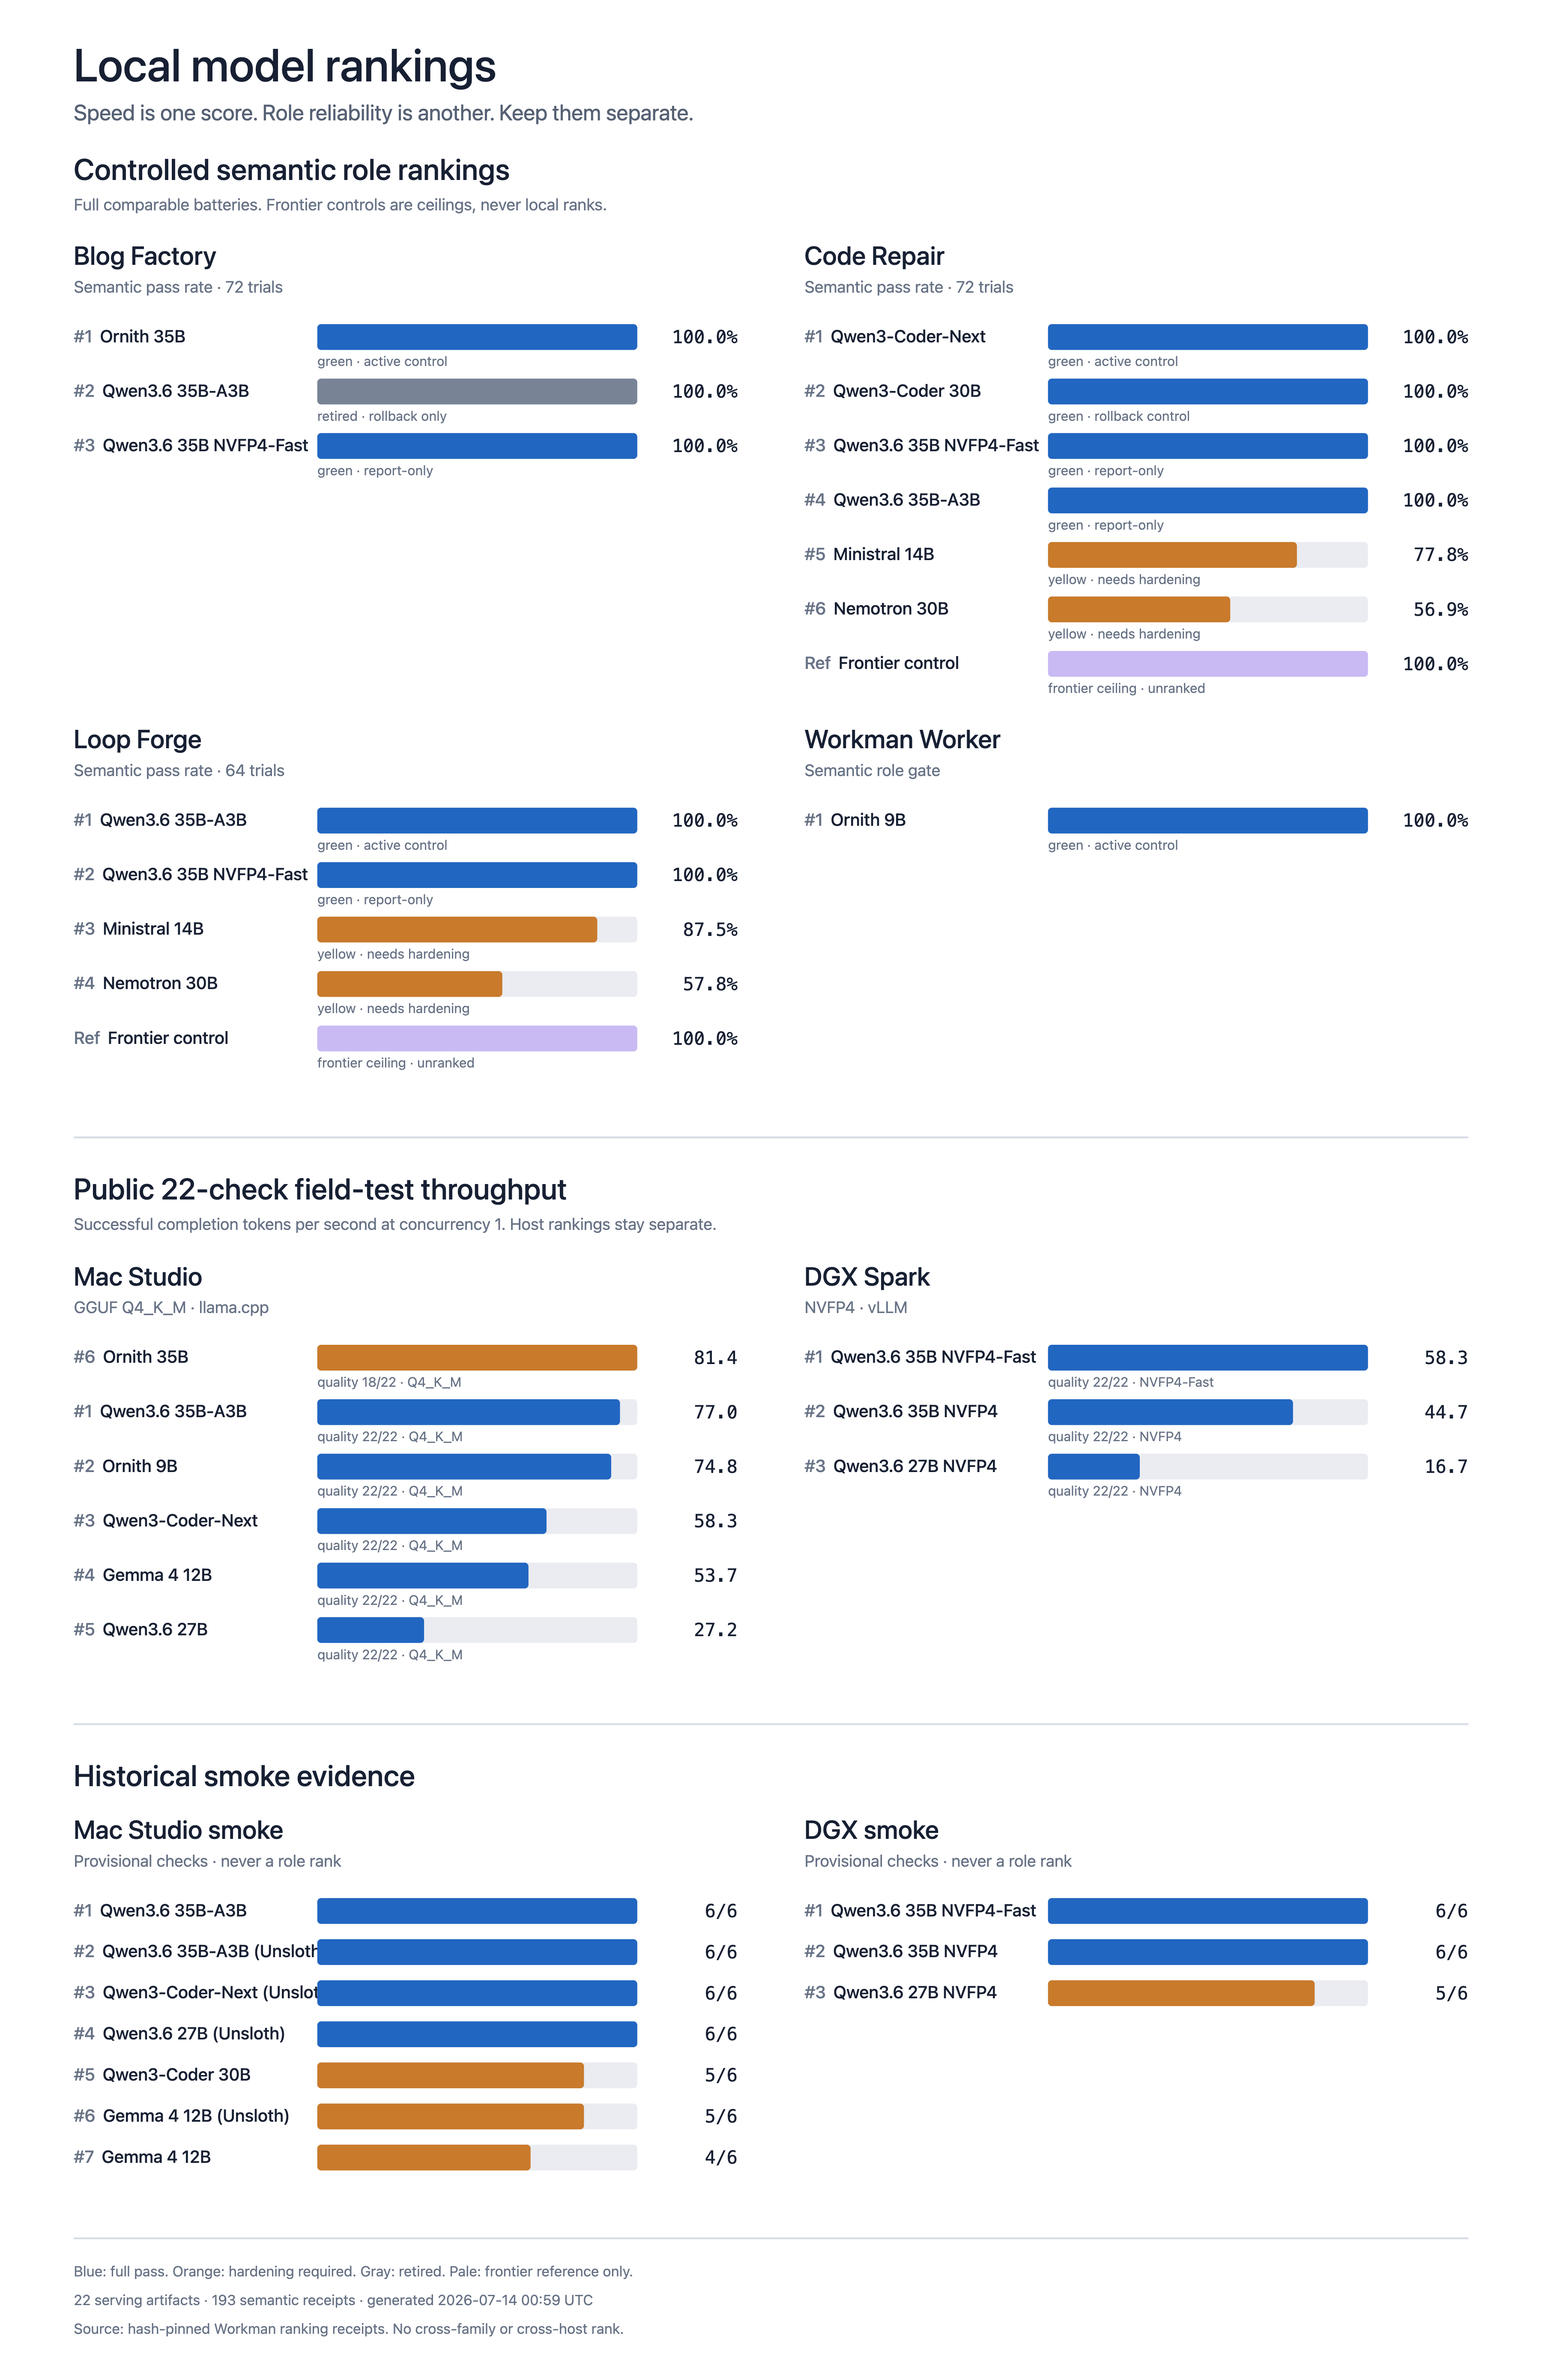
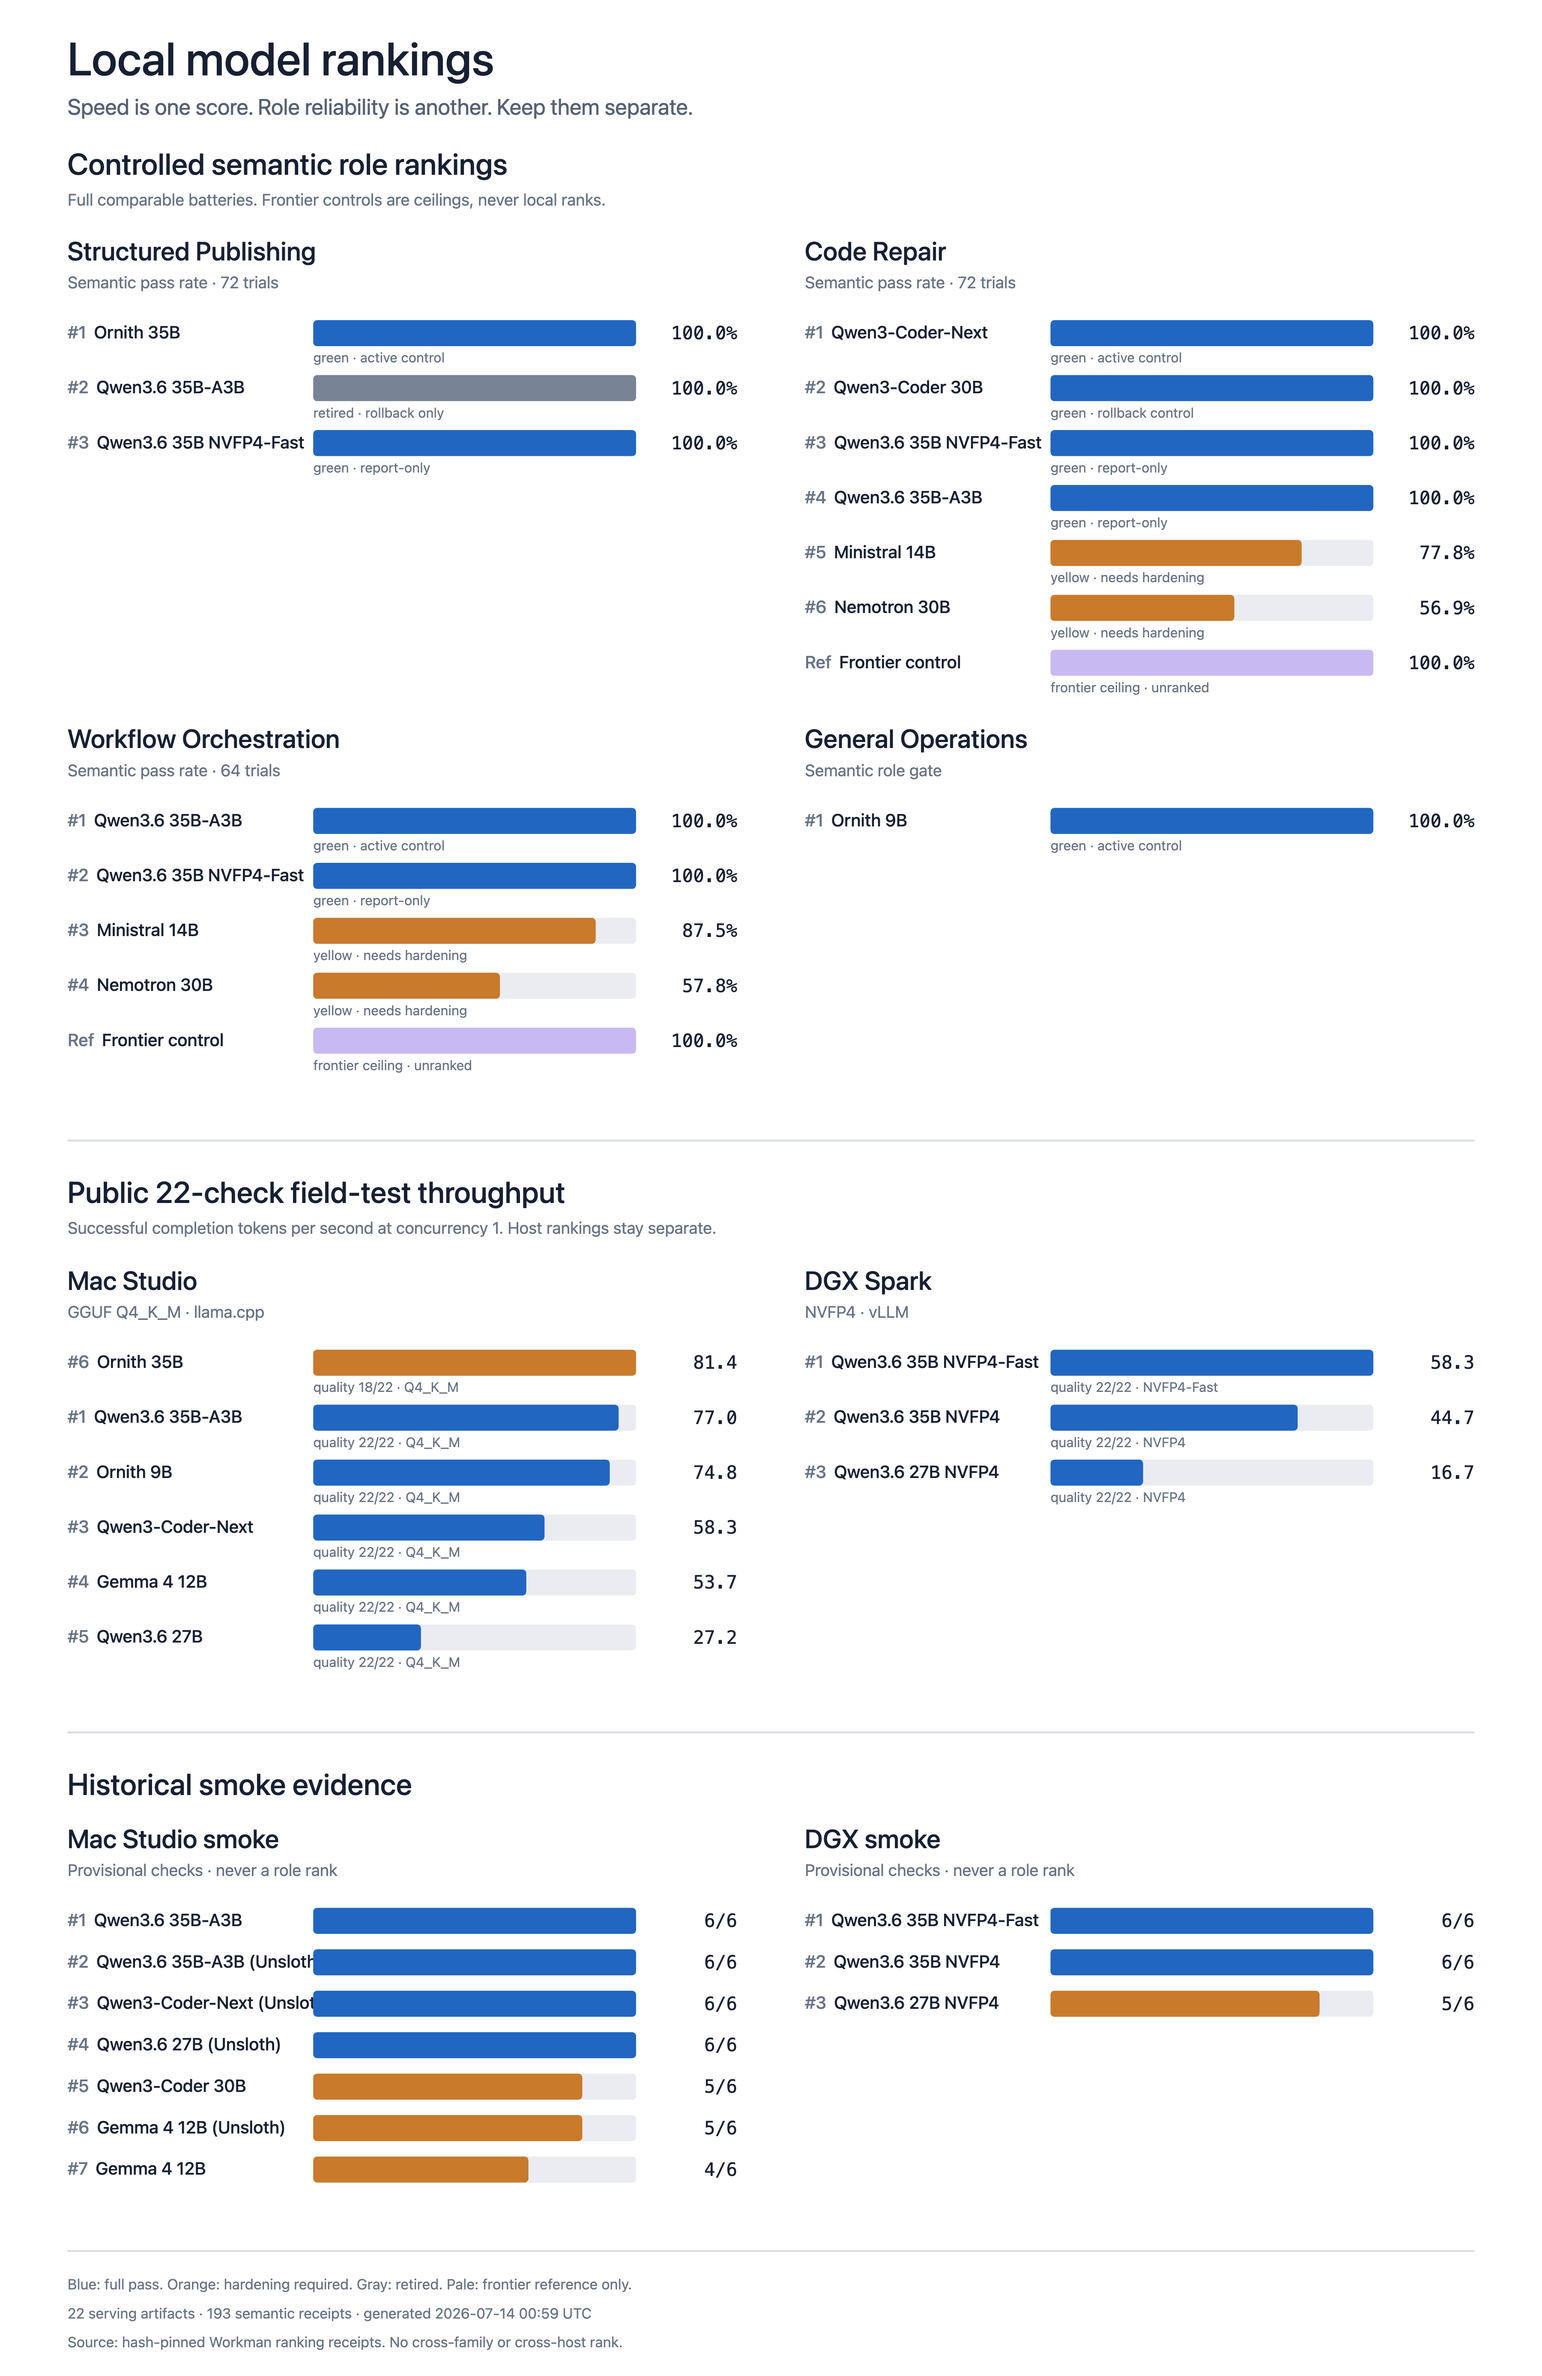
Use public-safe role labels

diff --git a/scripts/audit_public_repo.py b/scripts/audit_public_repo.py
@@ -1,6 +1,8 @@
 #!/usr/bin/env python3
 from __future__ import annotations
 
+import hashlib
+import re
 import subprocess
 import sys
 from functools import lru_cache
@@ -26,6 +28,12 @@ BINARY_SUFFIXES = {
     ".pdf",
     ".png",
     ".webp",
+}
+
+INTERNAL_LABEL_HASH_TO_PUBLIC = {
[3 lines of base64/hex data omitted]
 }
 
 
@@ -80,6 +88,21 @@ def read_audit_text(path: Path) -> str:
     return path.read_text(encoding="utf-8")
 
 
+def internal_label_findings(
+    line: str,
+    blocked: dict[str, str] = INTERNAL_LABEL_HASH_TO_PUBLIC,
+) -> list[str]:
+    words = re.findall(r"[a-z0-9]+", line.casefold())
+    findings: list[str] = []
+    for width in range(2, 5):
+        for start in range(len(words) - width + 1):
+            phrase = " ".join(words[start : start + width])
+            digest = hashlib.sha256(phrase.encode("utf-8")).hexdigest()
+            if digest in blocked:
+                findings.append(f"internal_label_hash:{digest};use={blocked[digest]}")
+    return findings
+
+
 def audit_files(paths: list[Path]) -> list[str]:
     findings: list[str] = []
     for path in paths:
@@ -95,6 +118,8 @@ def audit_files(paths: list[Path]) -> list[str]:
             display = path.name
         for line_number, line in enumerate(text.splitlines(), 1):
             for finding in scan_text(line):
+                findings.append(f"{display}:{line_number}:{finding}")
+            for finding in internal_label_findings(line):
                 findings.append(f"{display}:{line_number}:{finding}")
     return findings
 

diff --git a/tests/test_public_audit.py b/tests/test_public_audit.py
@@ -1,8 +1,14 @@
+import hashlib
 import tempfile
 import unittest
 from pathlib import Path
 
-from scripts.audit_public_repo import audit_files, changed_worktree_paths, tracked_files
+from scripts.audit_public_repo import (
+    audit_files,
+    changed_worktree_paths,
+    internal_label_findings,
+    tracked_files,
+)
 
 
 class PublicAuditTests(unittest.TestCase):
@@ -39,6 +45,15 @@ class PublicAuditTests(unittest.TestCase):
             path.write_text("safe fixture", encoding="utf-8")
             changed_worktree_paths.cache_clear()
             self.assertIn(str(path.relative_to(Path(__file__).resolve().parents[1])), changed_worktree_paths())
+
+    def test_hashed_internal_lane_label_fails_public_audit(self):
+        private_label = "private lane"
+        digest = hashlib.sha256(private_label.encode("utf-8")).hexdigest()
+        findings = internal_label_findings(
+            "This mentions the Private Lane in public copy.",
+            {digest: "Public Workflow"},
+        )
+        self.assertEqual(findings, [f"internal_label_hash:{digest};use=Public Workflow"])
 
 
 if __name__ == "__main__":

diff --git a/results/verified/2026-07-13-role-rankings/README.md b/results/verified/2026-07-13-role-rankings/README.md
@@ -8,28 +8,28 @@ Ranks are lane-specific. A rank in one role does not transfer to another role.
 
 | Lane | Rank | Model | Semantic pass | Trials | Status |
 |---|---:|---|---:|---:|---|
-| Blog Factory | 1 | Ornith 35B | 100.0% | 72 | active control |
-| Blog Factory | 2 | Qwen3.6 35B-A3B | 100.0% | 72 | retired, rollback only |
-| Blog Factory | 3 | Qwen3.6 35B NVFP4-Fast | 100.0% | 72 | report only |
+| Structured Publishing | 1 | Ornith 35B | 100.0% | 72 | active control |
+| Structured Publishing | 2 | Qwen3.6 35B-A3B | 100.0% | 72 | retired, rollback only |
+| Structured Publishing | 3 | Qwen3.6 35B NVFP4-Fast | 100.0% | 72 | report only |
 | Code Repair | 1 | Qwen3-Coder-Next | 100.0% | 72 | active control |
 | Code Repair | 2 | Qwen3-Coder 30B | 100.0% | 72 | rollback control |
 | Code Repair | 3 | Qwen3.6 35B NVFP4-Fast | 100.0% | 72 | report only |
 | Code Repair | 4 | Qwen3.6 35B-A3B | 100.0% | 72 | report only |
 | Code Repair | 5 | Ministral 14B | 77.8% | 72 | needs hardening |
 | Code Repair | 6 | Nemotron 30B | 56.9% | 72 | needs hardening |
-| Loop Forge | 1 | Qwen3.6 35B-A3B | 100.0% | 64 | active control |
-| Loop Forge | 2 | Qwen3.6 35B NVFP4-Fast | 100.0% | 64 | report only |
-| Loop Forge | 3 | Ministral 14B | 87.5% | 64 | needs hardening |
-| Loop Forge | 4 | Nemotron 30B | 57.8% | 64 | needs hardening |
-| Workman Worker | 1 | Ornith 9B | 100.0% | 40 | active control |
+| Workflow Orchestration | 1 | Qwen3.6 35B-A3B | 100.0% | 64 | active control |
+| Workflow Orchestration | 2 | Qwen3.6 35B NVFP4-Fast | 100.0% | 64 | report only |
+| Workflow Orchestration | 3 | Ministral 14B | 87.5% | 64 | needs hardening |
+| Workflow Orchestration | 4 | Nemotron 30B | 57.8% | 64 | needs hardening |
+| General Operations | 1 | Ornith 9B | 100.0% | 40 | active control |
 
-Frontier controls scored 100% in Code Repair and Loop Forge but are reference ceilings, not local ranks.
+Frontier controls scored 100% in Code Repair and Workflow Orchestration but are reference ceilings, not local ranks.
 
 ## Qwen Fast confirmation
 
 - Full role confirmation: 208/208.
 - First passive watchdog: 208/208.
-- Fresh champion confirmation: Ornith Blog Factory 72/72; Qwen3-Coder-Next Code Repair 72/72; Qwen3.6 35B-A3B Loop Forge 64/64.
+- Fresh control confirmation: Ornith Structured Publishing 72/72; Qwen3-Coder-Next Code Repair 72/72; Qwen3.6 35B-A3B Workflow Orchestration 64/64.
 - Decision: quality ceiling tie across all three large-model roles; no automatic production promotion.
 
 ## Evidence boundaries

diff --git a/README.md b/README.md
@@ -33,7 +33,7 @@ See the [2026-07-11 adversarial audit remediation](docs/AUDIT_REMEDIATION_2026-0
 
 ## Operator role rankings
 
-The [2026-07-13 role-ranking update](results/verified/2026-07-13-role-rankings/) publishes sanitized aggregate results for four governed operator roles: Blog Factory, Code Repair, Loop Forge, and Workman Worker.
+The [2026-07-13 role-ranking update](results/verified/2026-07-13-role-rankings/) publishes sanitized aggregate results for four governed operator roles: Structured Publishing, Code Repair, Workflow Orchestration, and General Operations.
 
 ![Local model role rankings and host-separated field-test evidence](docs/assets/local-model-role-rankings-2026-07-13.svg)
 

diff --git a/docs/X_POST_DRAFT_2026-07-13.md b/docs/X_POST_DRAFT_2026-07-13.md
@@ -6,11 +6,11 @@ Fast is easy to benchmark.
 
 Reliable is harder.
 
-Qwen3.6 35B NVFP4-Fast went 208/208 across Blog Factory, Code Repair, and Loop Forge.
+Qwen3.6 35B NVFP4-Fast went 208/208 across structured publishing, code repair, and workflow orchestration.
 
 Then it went 208/208 again in the first passive watchdog.
 
-It tied every current role champion on semantic quality. We reran the champions live. They passed too.
+It tied every current role control on semantic quality. We reran the controls live. They passed too.
 
 Still no automatic promotion.
 
